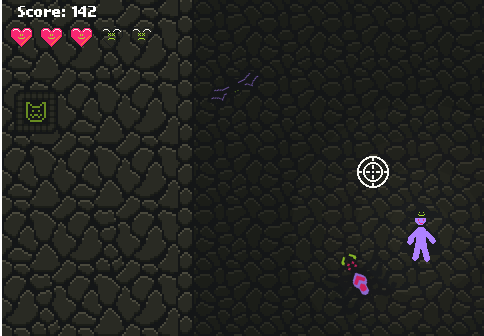
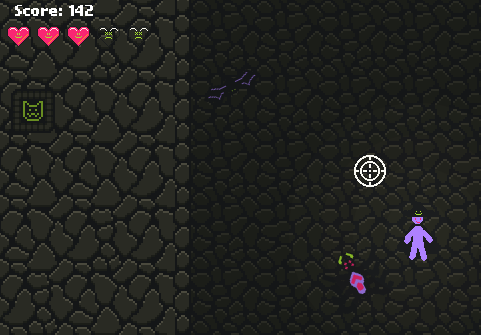
Crop image. Caps for PNG

diff --git a/index.html b/index.html
@@ -27,7 +27,7 @@
         <div class="row">
             <div class="col-3">
                 <div class="card">
-                    <img class="card-img-top" src="/assets/img/LudumDare48Game.png" alt="Card image cap">
+                    <img class="card-img-top" src="/assets/img/LudumDare48Game.PNG" alt="Ludum Dare 48 Screenshot">
                     <div class="card-body">
                         <h5 class="card-title">Ludum Dare 48</h5>
                         <p class="card-text">"Bat and Spider Cavern. A game made with Phaser.js in 48 hours as part of Ludum Dare 48"</p>
